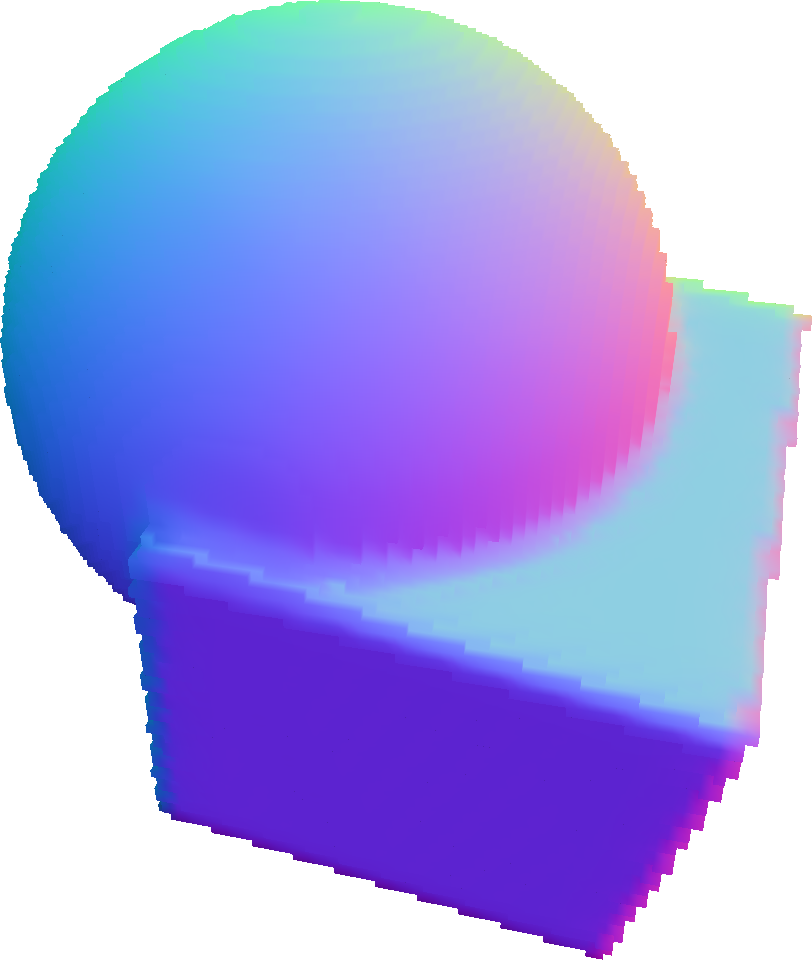
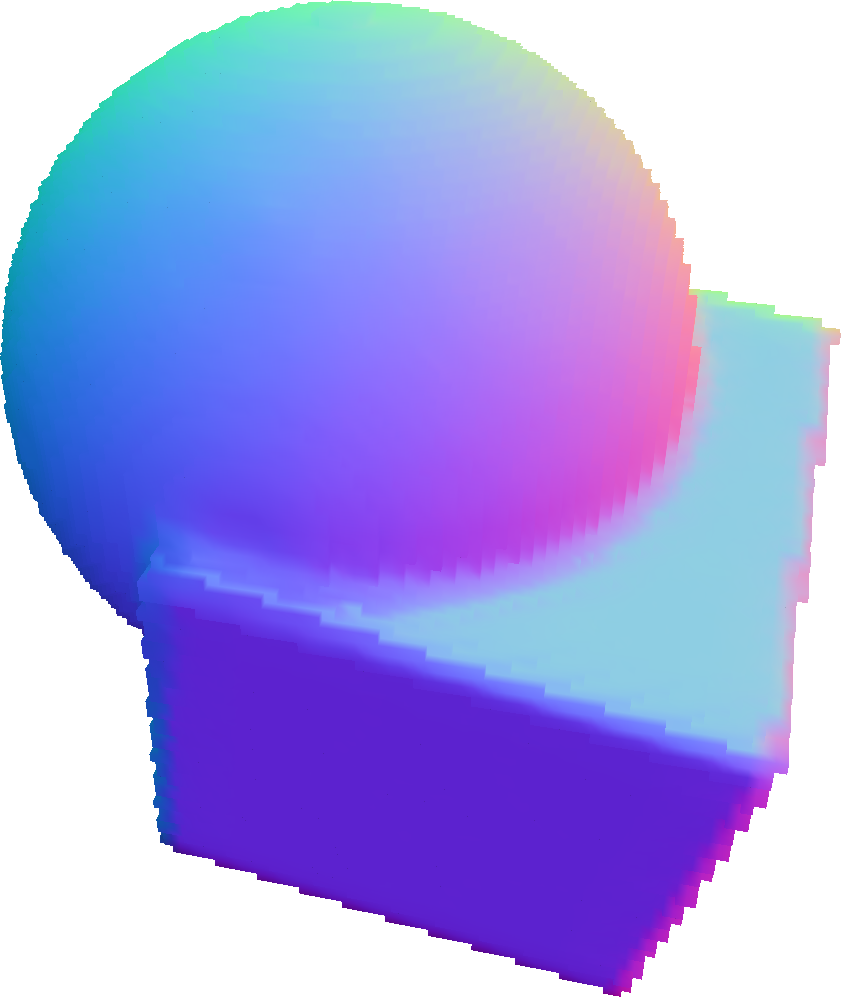
vn update + text changes

diff --git a/JMIV2026_rev1/normalsandcurvature.tex b/JMIV2026_rev1/normalsandcurvature.tex
@@ -120,10 +120,9 @@ are more stable on smooth parts, but fail to capture sharp features, as they smo
 Adafit normals are more stable overall, but tend to be noisy near sharp features.
 Furthermore, its computational cost is significantly higher: it takes about $48$ min for the dragon shape alone, while
 the other three methods combined (the 2 different radii for each method and the visibility computation included)
-take about $1$ min. Our visibility normals are stable on smooth parts while capturing sharp features,
-without any parameter tuning. The only optional parameter is the maximum visibility radius,
-which defaults to the local mean visibility distance and allows faster computation while
-producing visually indistinguishable results.}
+take about $30$ min. Our visibility normals are stable on smooth parts while capturing sharp features,
+without any parameter tuning. The only optional parameter is the maximum discrete visibility radius,
+which allows faster computation while producing visually indistinguishable results.}
 
 In order to compare quantitatively the different normal estimators, we compute the
 root-mean-square error (RMSE) and the maximum error $E_{\max}$ of the
@@ -227,7 +226,7 @@ the singularity for all estimators.
     ``Integral Invariant normals`` are computed using a radius of
         $r=4.5$ \added[id=ROM]{above the line and $r=9$ below}, PCA with a discrete radius of 4
         \added[id=ROM]{above the line and 8 below} (empirical)\added[id=ROM]{, Adafit uses $k=128$  neighbors},
-        while our normal estimator \replaced[id=ROM]{uses capped visibility at $r=30$}{are computed using a deviation of $\sigma=4$, and so a
+        while our normal estimator \replaced[id=ROM]{uses capped visibility at $r=30$, with $\sigma(p)=\frac{1}{2} d_v(p)$}{are computed using a deviation of $\sigma=4$, and so a
         radius of $r=2\sigma=8$}, with a star of 1 and with a weighted kernel.}
     \label{fig:normals-estimation}
 \end{figure*}
